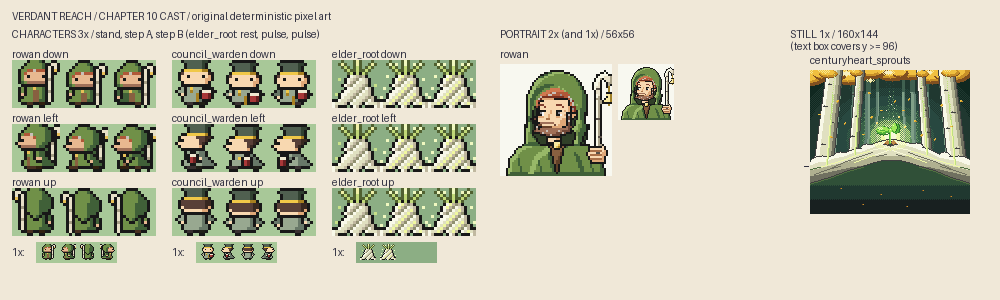
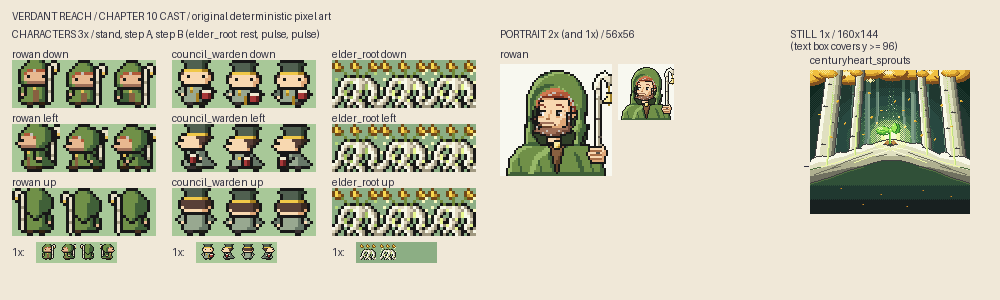
Redraw elder_root as a gnarled tangle of roots
Lead review: at 1x the old knot read as white garlic or onion bulbs with
shoots. The new 16x16 is drawn by hand: five thick pale aspen roots trail
out along the ground at both corners and twist into a knuckled knot, with
the soil showing through the gaps between strands (offset so no two gaps
pair up into a face). The dark slot shades each strand and fills the
crevices, the brightest of which carry the green-gold glow; three small
round golden aspen leaves on short stems sprout from the top. Column 0
rests and columns 1-2 pulse (the crevice glow brightens and motes rise).
Every row is the same, as before.

Changed region(s): [[0.31, 0.63, 0.496, 0.87], [0.31, 0.18, 0.496, 0.36], [0.31, 0.42, 0.496, 0.57]]

diff --git a/tools/art/cast10/chars10.py b/tools/art/cast10/chars10.py
@@ -14,14 +14,18 @@
                   badge on the breast, a tall straight-sided ceremonial hat in
                   a darker green with a gold band, flaring a little at the
                   crown, and a red ledger of marks held at the waist.
-  elder_root      the Elder as an overworld object at the heart: a knot of
-                  pale aspen roots rising out of the ground, about the
-                  player's size, three pale shoots at its crown and a soft
-                  green-gold glow. Column 0 is the resting glow, columns 1-2
-                  the pulse (the veins in the roots light up and the glow
-                  spreads a pixel); every row is the same, so turning to face
-                  the player changes nothing. No face and no paired dark
-                  marks: the knot is all strands and light.
+  elder_root      the Elder as an overworld object at the heart: a gnarled
+                  tangle of five thick pale aspen roots, about the player's
+                  size, trailing out along the ground at both sides and
+                  twisting together into a knuckled knot, with the soil
+                  showing through the gaps between strands. Three small round
+                  golden aspen leaves on short stems sprout from the top and
+                  a soft green-gold glow sits in the crevices. Column 0 is the
+                  resting glow, columns 1-2 the pulse (the crevices brighten
+                  and motes of light rise); every row is the same, so turning
+                  to face the player changes nothing. No face and no paired
+                  dark marks: crevices are long and irregular, and the gaps
+                  never sit side by side.
 
 Silhouette checks: rowan is the only cast member in a hood, and his crook
 staff with its bell is pale and low (rook's is red-brown and forked, taller
@@ -245,60 +249,52 @@ WARDEN["held"] = {
 # =============================================================================
 # The Elder's root knot
 # =============================================================================
-ROOT_PAL = {"K": "#181818", "L": ASPEN_H, "M": "#e0dcc0", "D": "#bcb89c", "N": "#908c74",
-            "G": "#f0f0a8", "g": "#c0d878", "Q": "#506434", "V": "#f0f8a0", "x": "#c8e088", "o": "#f0f8c0"}
+ROOT_PAL = {"K": "#181818", "L": ASPEN_H, "M": "#dcd8bc", "D": "#9c9880",
+            "c": "#a8c860", "C": "#e8f890",                     # crevice glow: resting, pulse
+            "Y": "#f8d850", "y": "#c89830", "B": "#6c4818",      # golden aspen leaves, dark gold outline
+            "s": "#6c8838", "x": "#b8d878", "o": "#f8f8c0"}      # leaf stems, glow motes
 
-# The silhouette: a column of roots rising out of the soil, rounded at the
-# crown, swelling into a knot and flaring into three roots that dive back
-# into the ground (the gaps between them show the soil). Spans are inclusive
-# x ranges per row; the outline is added round them.
-KNOT_SPANS = {5: [(6, 10)], 6: [(5, 11)], 7: [(5, 11)], 8: [(4, 11)], 9: [(5, 12)], 10: [(4, 12)],
-              11: [(3, 12)], 12: [(3, 13)], 13: [(2, 13)],
-              14: [(0, 4), (6, 9), (11, 15)], 15: [(0, 1), (7, 8), (14, 15)]}
-# Three pale shoots spreading from the crown (no outline: thin and light).
-SHOOTS = [(3, 1, "G"), (4, 2, "g"), (5, 3, "g"), (6, 4, "g"), (8, 0, "G"), (8, 1, "G"), (8, 2, "g"), (8, 3, "g"),
-          (8, 4, "g"), (13, 1, "G"), (12, 2, "g"), (11, 3, "g"), (10, 4, "g")]
-MOTES_DIM = [(2, 6), (14, 8), (1, 11)]
-MOTES_LIT = [(2, 5), (14, 6), (1, 9), (15, 11), (5, 1), (11, 1), (0, 12)]
+# Drawn by hand, pixel by pixel. Five pale roots: two trail out along the
+# ground at the corners and climb as the outer legs, one climbs the middle,
+# and two cross over the crown in a knuckled knot; the soil shows through
+# the gaps between them (left under the crown, right lower down, so no two
+# gaps sit side by side). The dark slot (D) is each strand's shadow side
+# and the crevices where strands press together; the brightest crevices (c)
+# hold the Elder's green-gold glow, which pulses. Three small round golden
+# aspen leaves on short stems sprout from the top of the knot.
+ROOT_ROWS = [
+    ".B.....B.....B..",
+    "BYB...BYB...BYB.",
+    "BYyB..BYyB..ByYB",
+    ".BBs...Bs...sBB.",
+    "....s...s..s....",
+    "....KsKKsKsKK...",
+    "...KLLMMLMDLDK..",
+    "..KLMDcLLMMDLDK.",
+    "..KLDK.KLMDcLMDK",
+    ".KLMK..KLMDcLLDK",
+    ".KLDcDKLDcK.KLMK",
+    ".KLMcKKLMDK.KLDK",
+    "KLDKLDcLDK.KLMcK",
+    "LMDK.KLMDcKKLDKD",
+    "MDK.KLDKLMDKKMDL",
+    "DK..KDK.KLDK.KDD",
+]
+MOTES_DIM = [(14, 4), (1, 6)]
+MOTES_LIT = [(2, 4), (14, 4), (1, 6), (15, 7), (0, 9), (15, 3)]
 
 
 def root_frame(pulse: int):
-    g = [["."] * 16 for _ in range(16)]
-    body = {(x, y) for y, runs in KNOT_SPANS.items() for a, b in runs for x in range(a, b + 1)}
-    for x, y in body:
-        # The twist: diagonal strands, each lit on its left edge (L), pale
-        # across (M), turning into shade (D) and a crease (N) where the next
-        # strand wraps over it; the outer edges stay lit left, shaded right.
-        c = "LMMDN"[(x + y) % 5] if y < 14 else "M"
-        if (x - 1, y) not in body:
-            c = "L"
-        elif (x + 1, y) not in body and c != "N":
-            c = "D"
-        if pulse and c == "M" and (x + y) % 5 == 2:
-            c = "V"                                   # the glow runs up every strand
-        g[y][x] = c
-    for x, y in body:
-        for dx, dy in ((1, 0), (-1, 0), (0, 1), (0, -1)):
-            q = (x + dx, y + dy)
-            if q not in body and 0 <= q[0] < 16 and 0 <= q[1] < 16:
-                g[q[1]][q[0]] = "K"
-    # The shoots get a dark green outline (hue-shifted, not black), so they
-    # read on grass without weighing as much as the knot.
-    shoot = {(x, y) for x, y, _ in SHOOTS}
-    for x, y in shoot:
-        for dx, dy in ((1, 0), (-1, 0), (0, -1)):
-            q = (x + dx, y + dy)
-            if q not in shoot and 0 <= q[0] < 16 and 0 <= q[1] < 16 and g[q[1]][q[0]] == ".":
-                g[q[1]][q[0]] = "Q"
-    for x, y, c in SHOOTS:
-        g[y][x] = "o" if pulse and c == "G" else c   # the shoot tips flare on the pulse
+    g = [list(r) for r in ROOT_ROWS]
     for x, y in MOTES_LIT if pulse else MOTES_DIM:
-        if g[y][x] == ".":
-            g[y][x] = "o" if pulse else "x"
+        assert g[y][x] == ".", (x, y)
+        g[y][x] = "o" if pulse else "x"
     out = Image.new("RGBA", (16, 16), ch.gbc.CLEAR)
     px = out.load()
     for y, row in enumerate(g):
         for x, c in enumerate(row):
+            if c == "c" and pulse:
+                c = "C"                                   # the crevice glow brightens on the pulse
             if c != ".":
                 px[x, y] = ch.gbc.hexc(ROOT_PAL[c])
     return out
